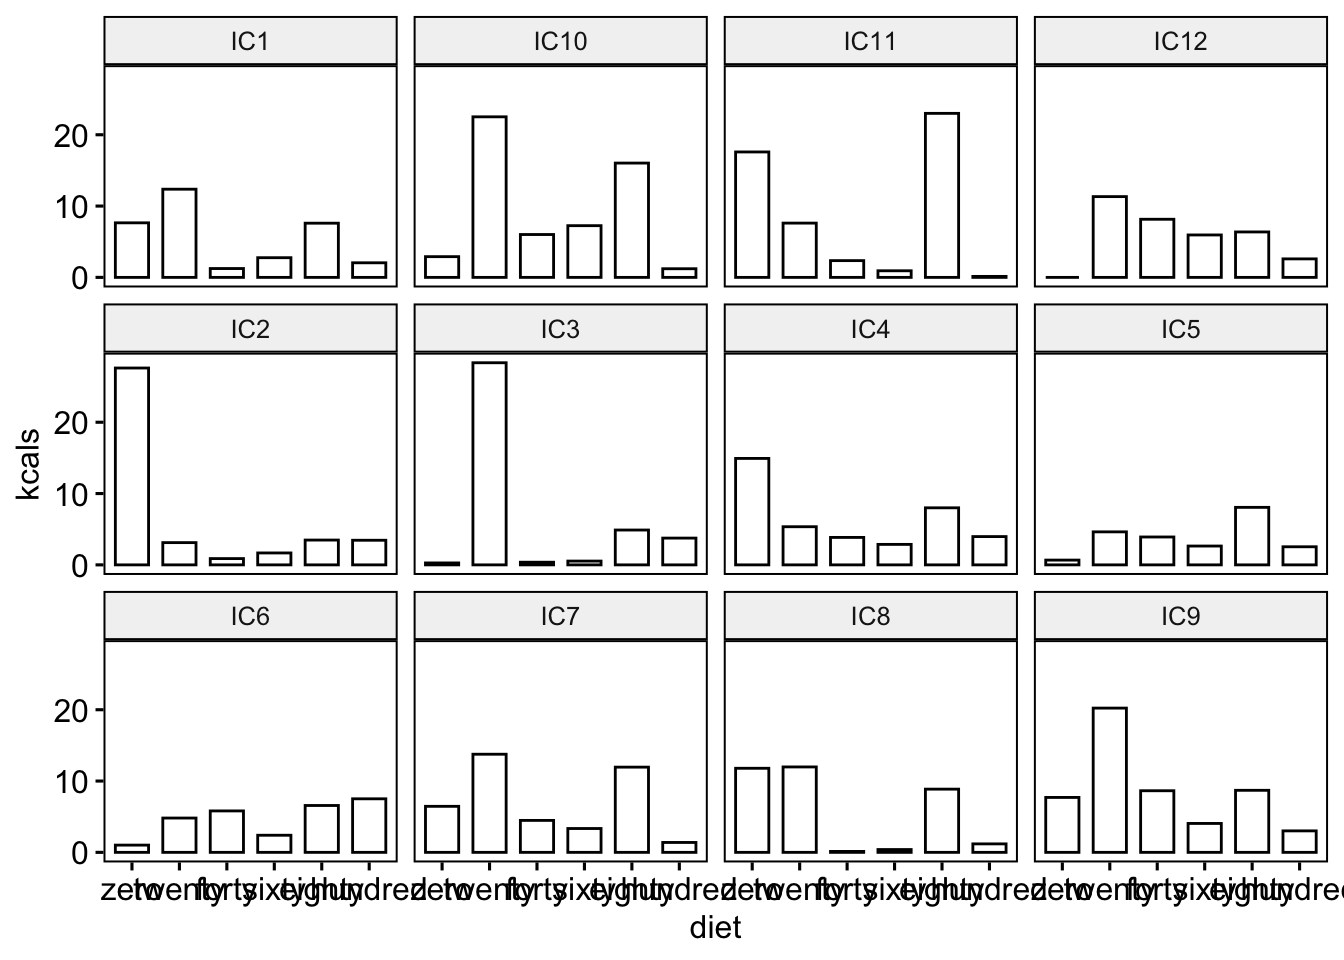
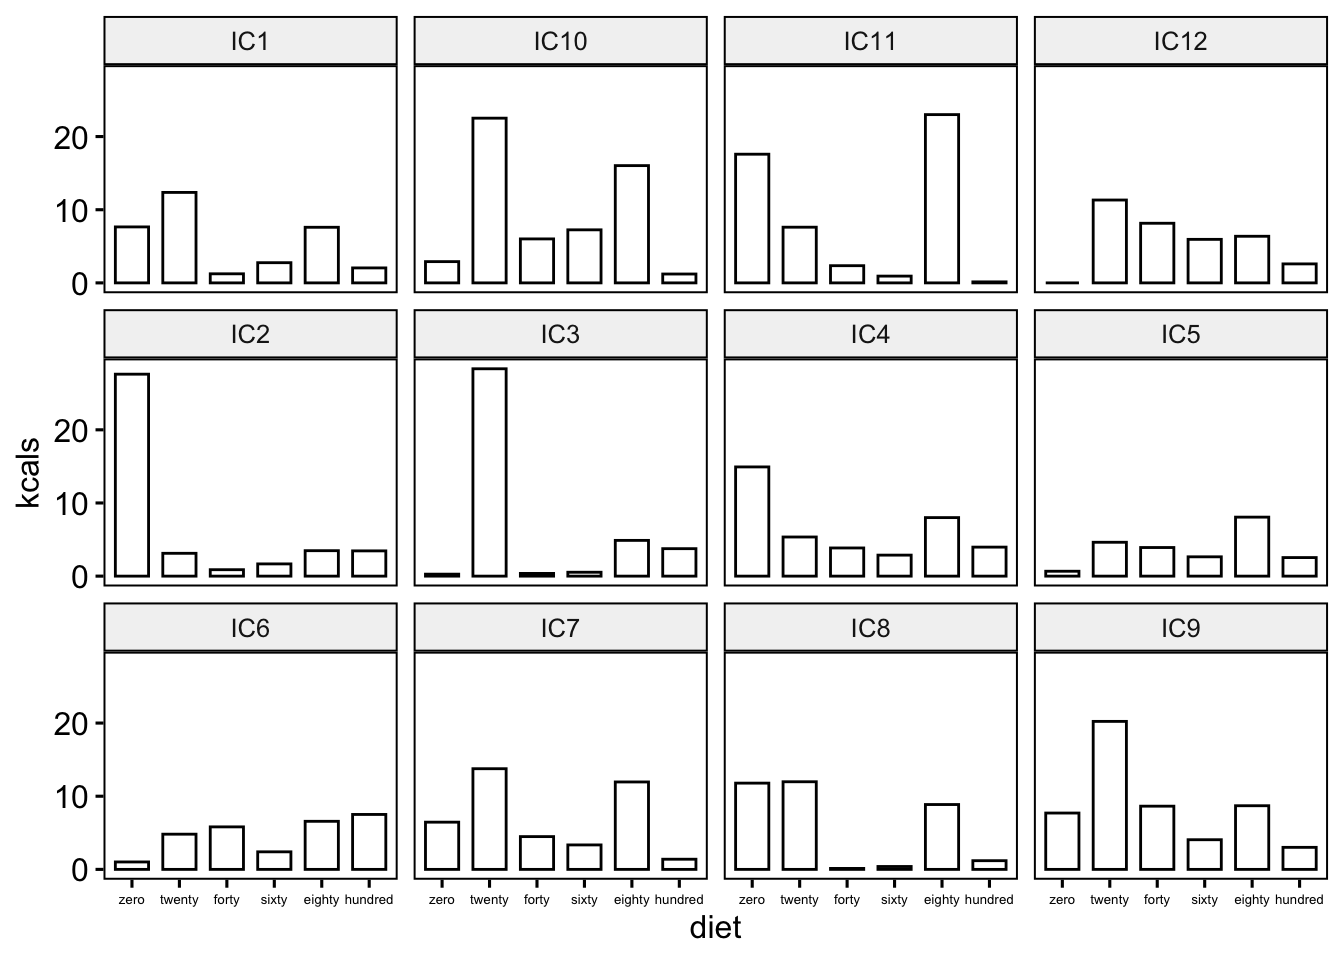
Finished portfolio 3!

diff --git a/docs/p03.html b/docs/p03.html
@@ -440,8 +440,16 @@ variable.</p>
 <pre class="r"><code>avg_kcal_long %&gt;%
 ggbarplot(x = &quot;diet&quot;,
           y = &quot;kcals&quot;,
-          facet.by = &quot;real_rat_name&quot;)</code></pre>
+          facet.by = &quot;real_rat_name&quot;,
+          font.xtickslab = 5)</code></pre>
 <p><img src="p03_files/figure-html/kcal-bar-graphs-1.png" width="672" /></p>
+<p>And here we have it! Each rat’s favorite diet is just the tallest
+column. This also gives us a sense for the strength of the preference
+for each rat. For example, IC2 strongly preferred the 0% diet to all
+other diets, but IC5 and IC6 sort of sampled all the diets.</p>
+<p>What’s interesting is that no one preferred the middle diets (40% and
+60%), which is what we expected to see. It’ll be interesting to figure
+out what patterns come out in this data!</p>
 
 
 
